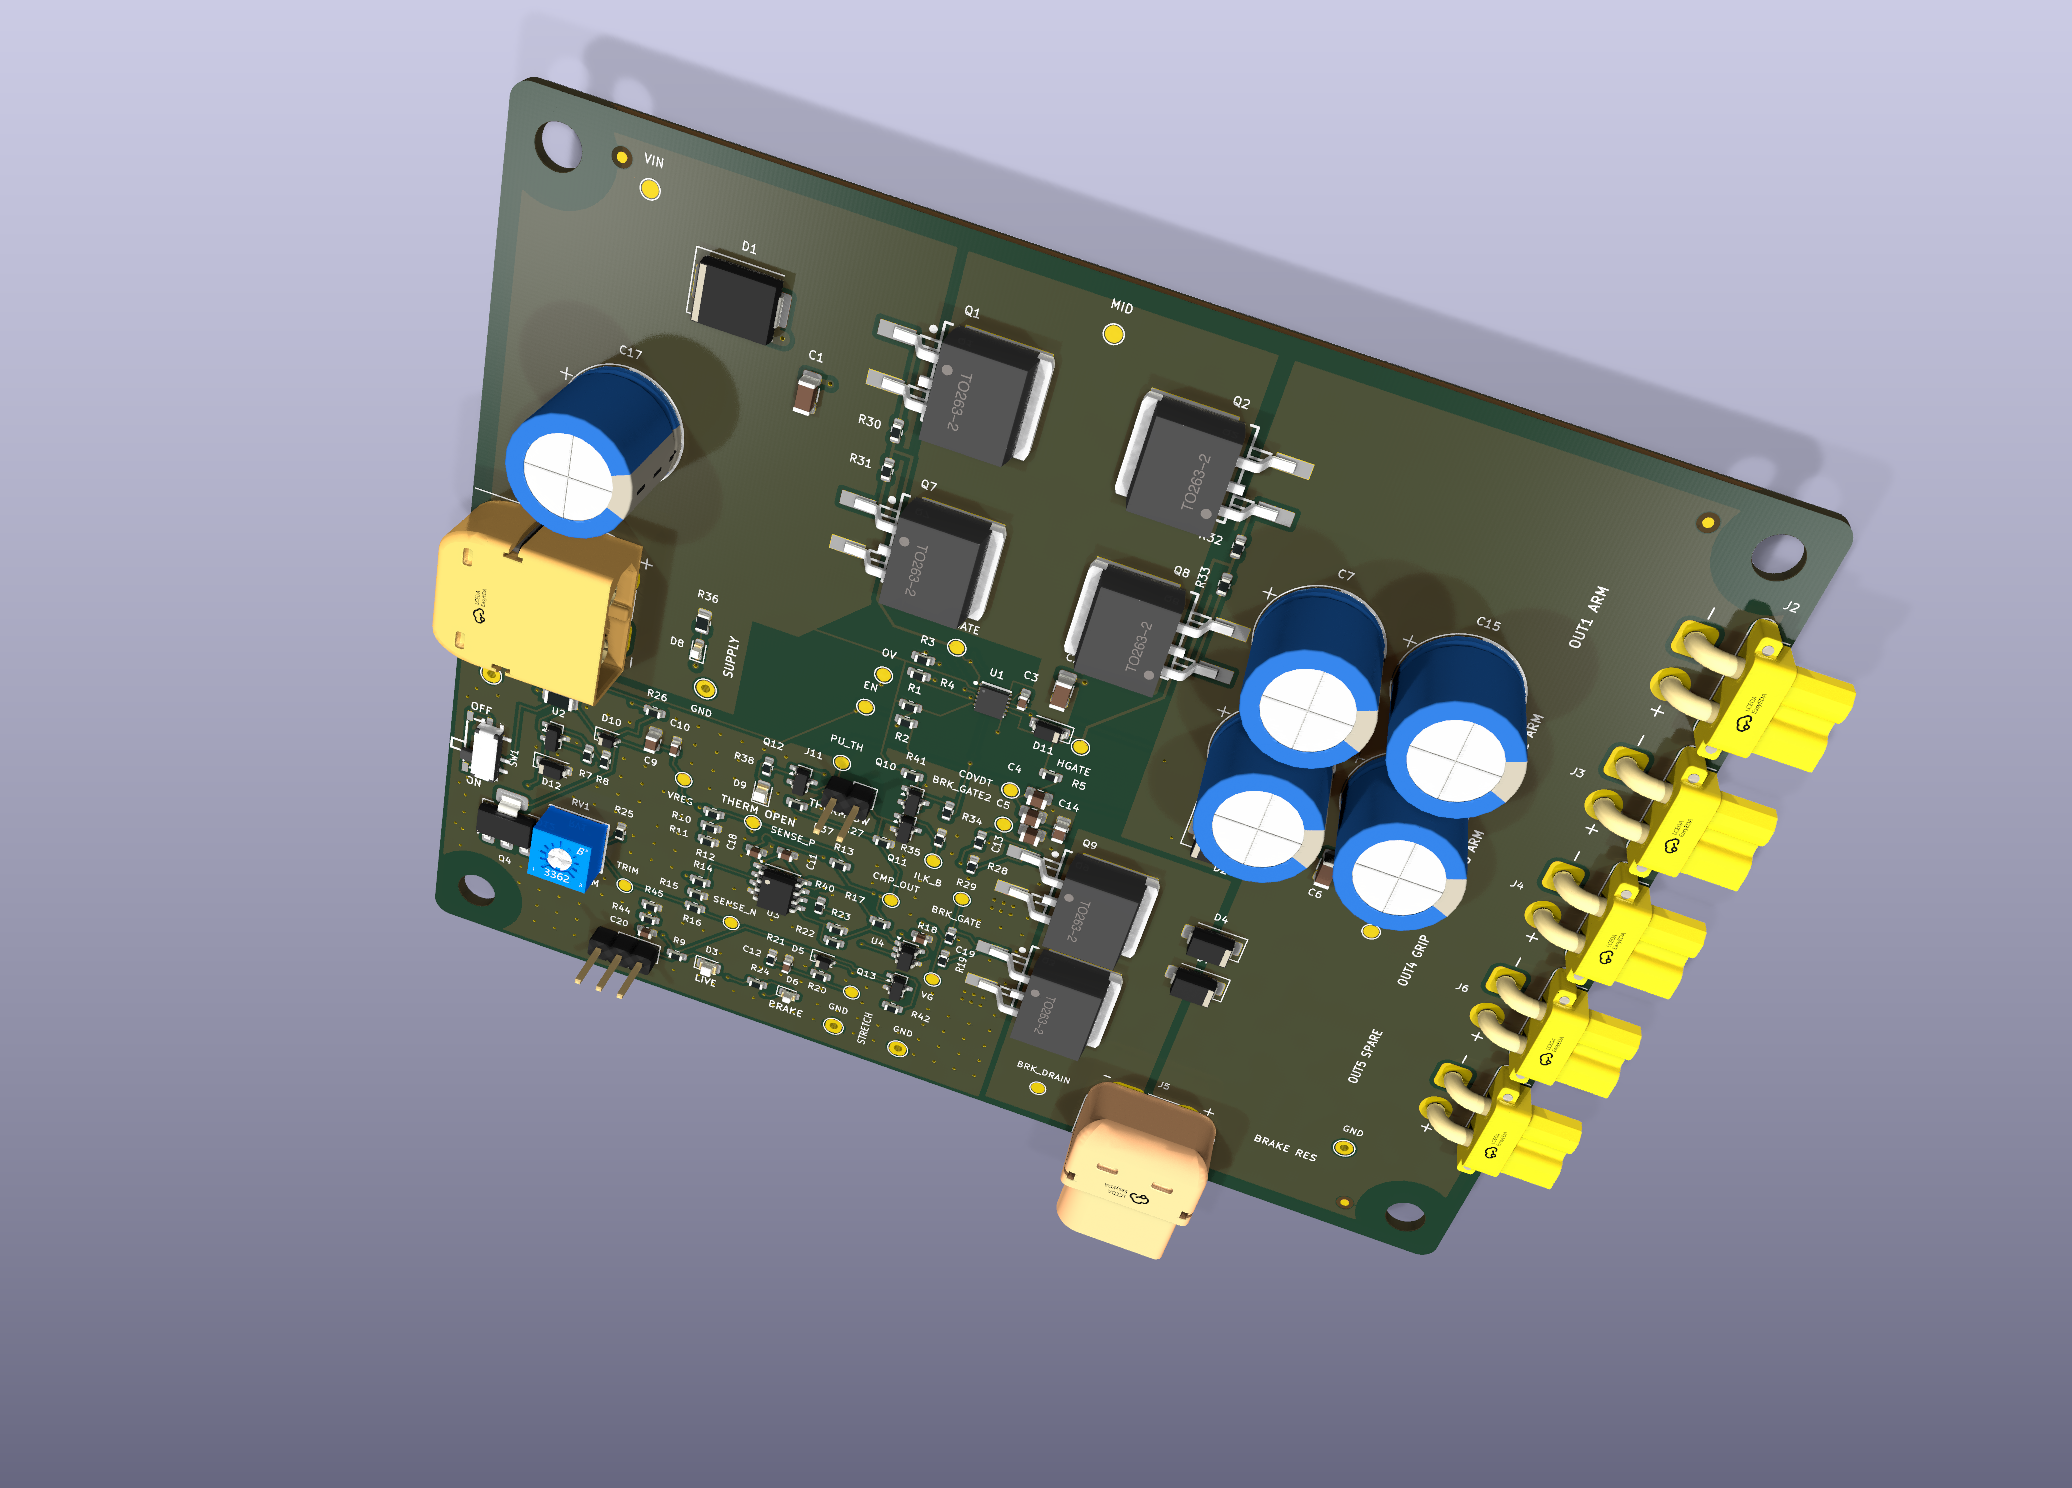
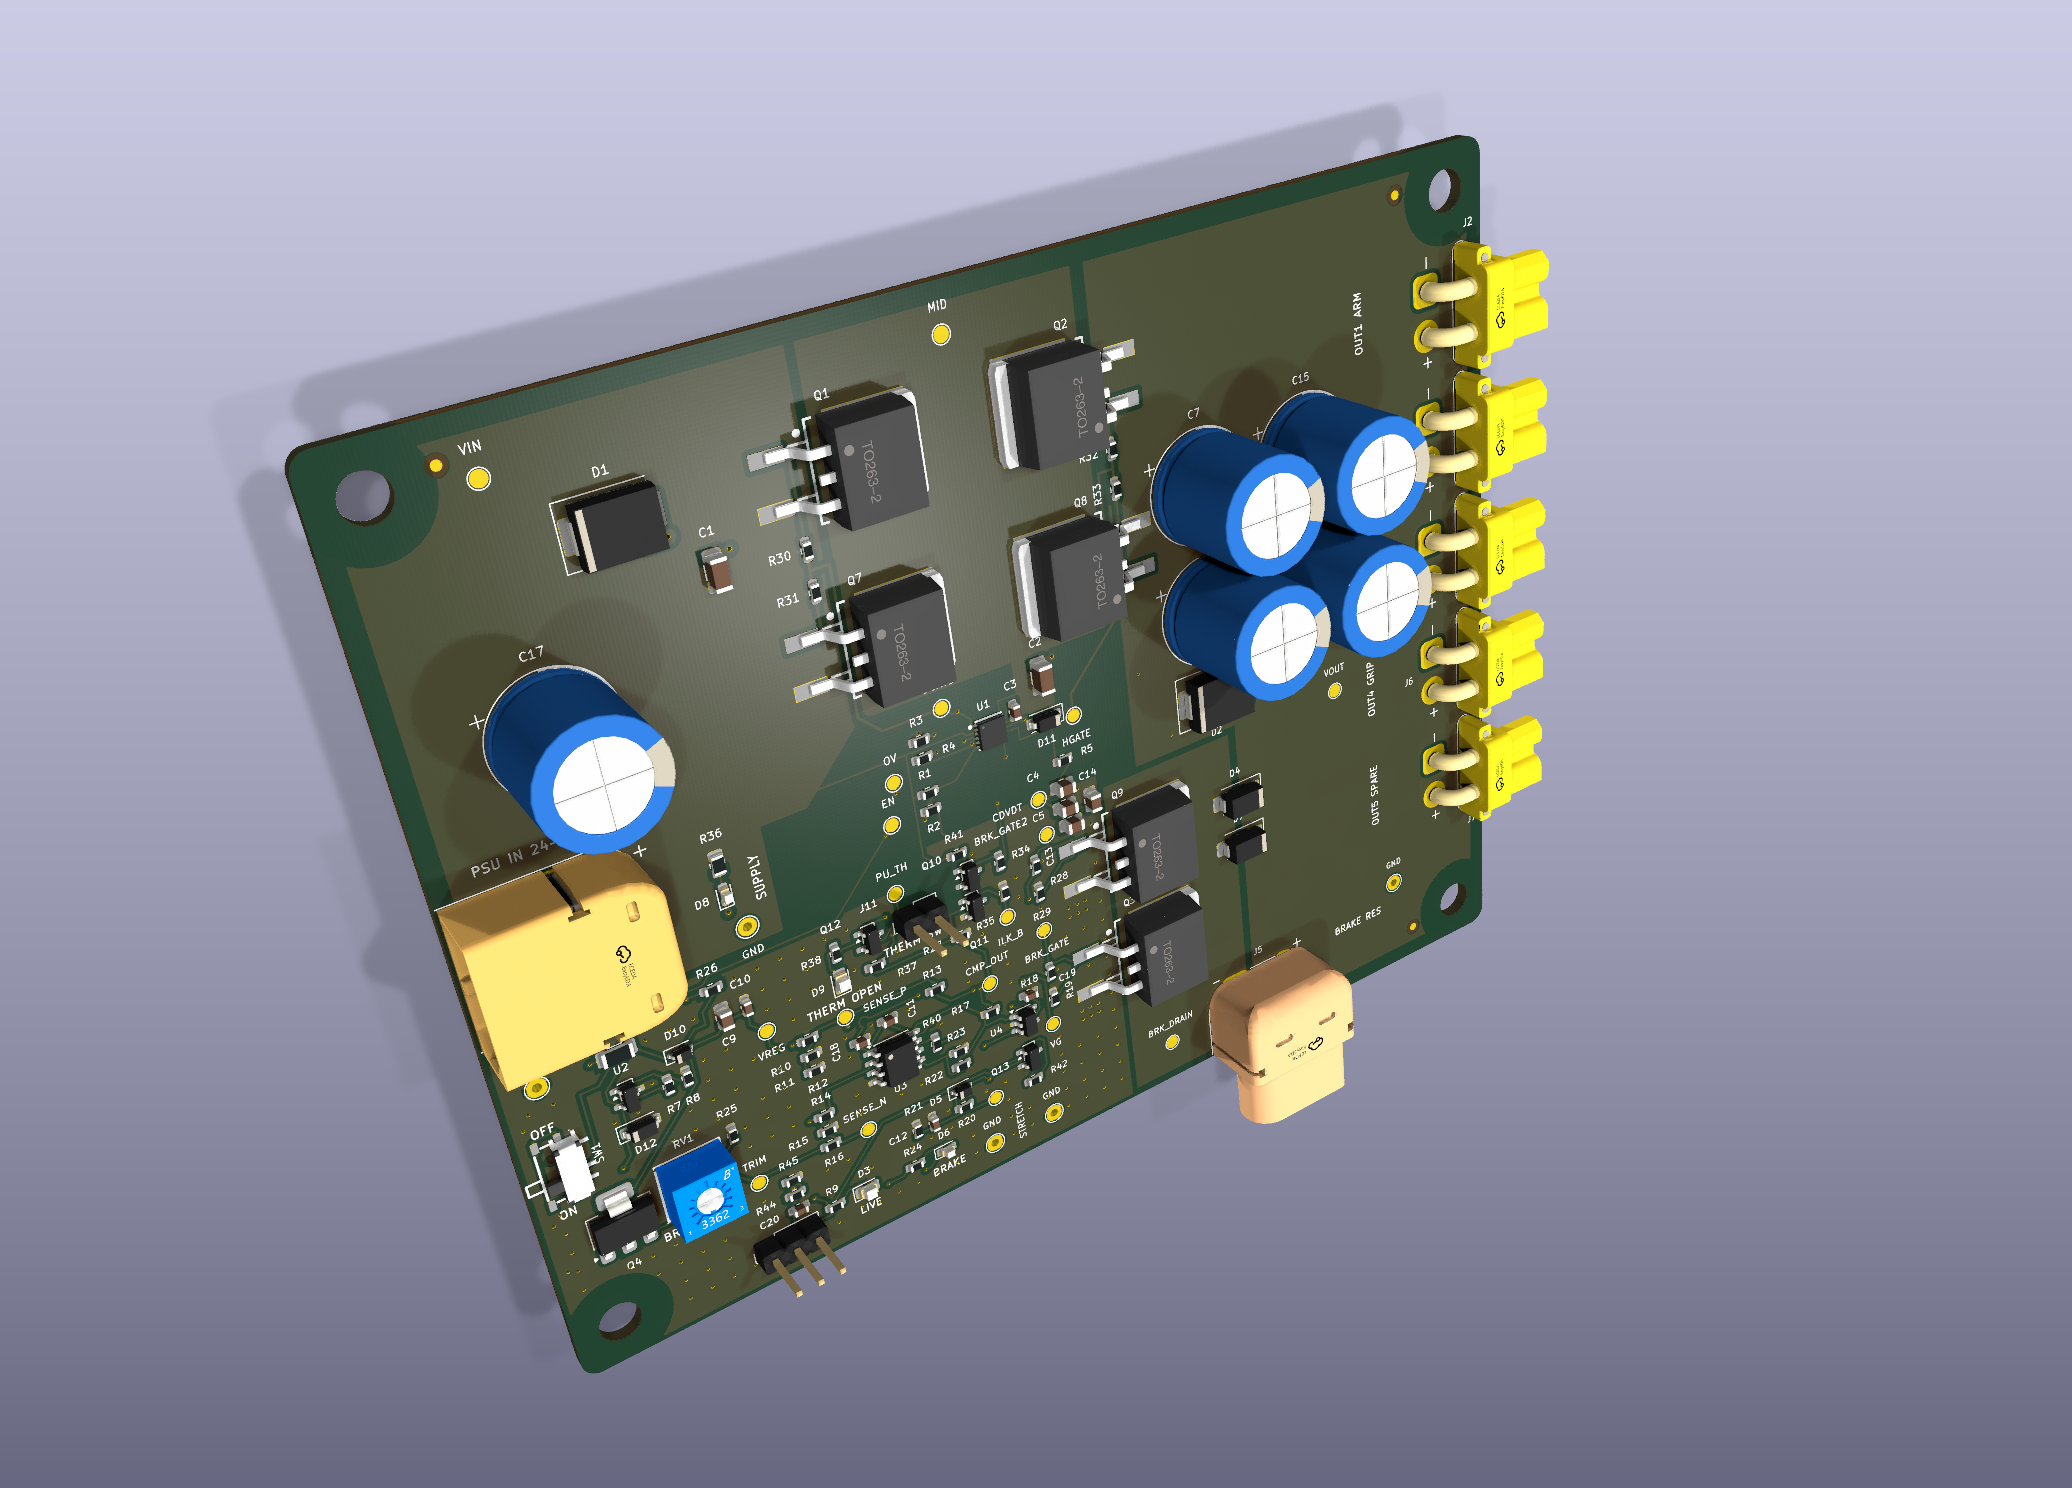
Turn the J1 3D model toward the board edge

diff --git a/README.md b/README.md
@@ -452,7 +452,9 @@ view](docs/regen_precharge_revF_top.png), and the [angled 3D view](docs/regen_pr
 The populated views use the part-specific EasyEDA STEP models for [XT30PW-F](https://www.lcsc.com/product-detail/C2913282.html),
 [XT60PW-M30](https://www.lcsc.com/product-detail/C98732.html), and [XT60PW-F](https://www.lcsc.com/product-detail/C428722.html).
 The models are aligned to the contacts and locating holes. Regenerating the files after this update reproduced
-the same board fabrication and placement data.
+the same board fabrication and placement data. J1's mating face points out of the board's left edge.
+Looking straight into J1 from that edge with the PCB below the connector, the left contact is VIN (+, pad 2)
+and the right contact is GND (−, pad 1).
 
 
 ## Files
